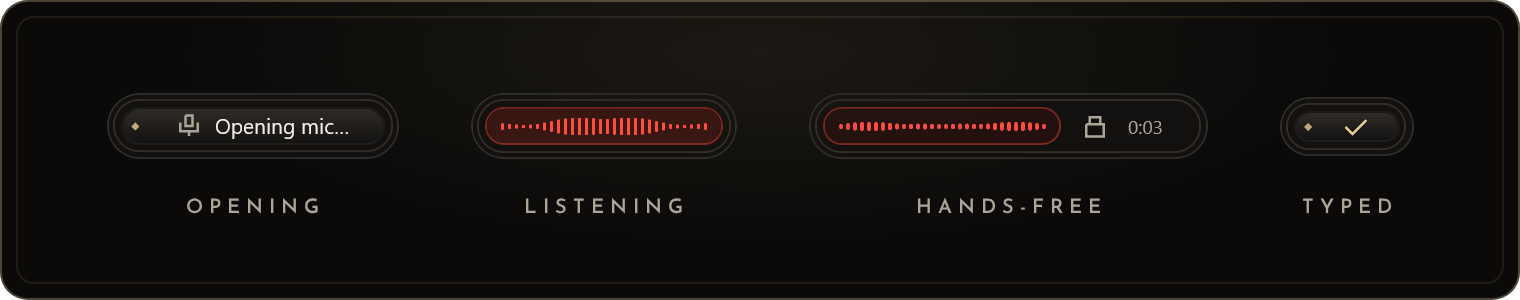
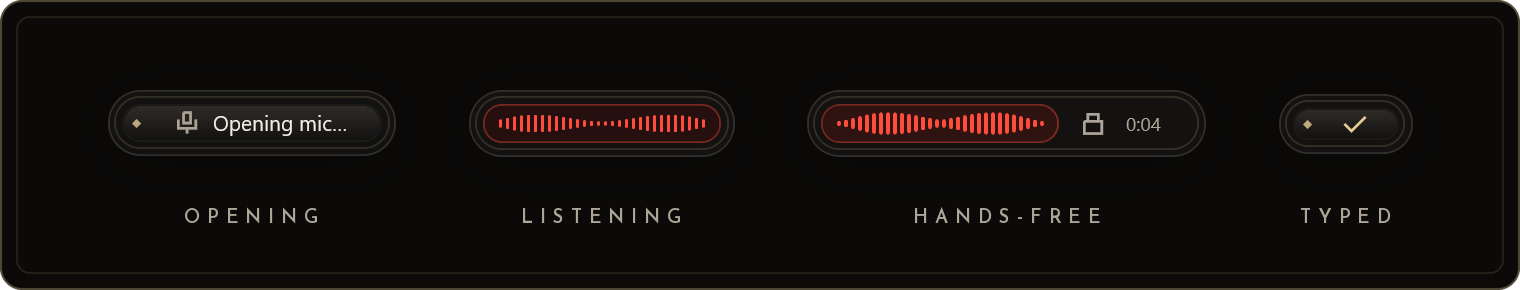
docs: show every feature in the README with native screenshots
Each image is a PrintWindow capture of Speakeasy's own windows from the --demo preview on Windows, composed onto the README card: the pill's states and outcomes, a Show in progress with its contact sheet and summary, first-launch setup, Settings and its four themes, and the tray states. Pause and pill outcomes are now stated once, beside the images that show them.

diff --git a/README.md b/README.md
@@ -9,8 +9,10 @@
 </p>
 
 <p align="center">
+  <a href="#show-your-coding-agent">Shows</a>&nbsp;&nbsp;◆&nbsp;&nbsp;
   <a href="#get-started">Get started</a>&nbsp;&nbsp;◆&nbsp;&nbsp;
   <a href="#speech-engines">Speech engines</a>&nbsp;&nbsp;◆&nbsp;&nbsp;
+  <a href="#everyday-use">Everyday use</a>&nbsp;&nbsp;◆&nbsp;&nbsp;
   <a href="#build-and-verify">Build and verify</a>&nbsp;&nbsp;◆&nbsp;&nbsp;
   <a href="docs/architecture.md">Architecture</a>
 </p>
@@ -23,7 +25,8 @@ slot on screen while you speak, and keeps every word on your machine.
 
 <p align="center">
   <img src="docs/assets/pill.png"
-    alt="The pill opening the microphone, listening, recording hands-free, and confirming typed text" width="760">
+    alt="The pill opening the microphone, listening, hands-free with a lock and timer, and a check for typed text"
+    width="760">
 </p>
 
 | Gesture                                        | Windows                                             | Mac                              |
@@ -35,11 +38,32 @@ slot on screen while you speak, and keeps every word on your machine.
 
 The shortcuts match Wispr Flow's defaults, and double-tapping the shortcut also starts hands-free.
 On Mac, set **System Settings › Keyboard › Press 🌐 key to** to **Do Nothing** so Fn only dictates.
-Recordings stop at five minutes, with a countdown for the last 30 seconds. A check means the text
-was submitted to your app; **No speech detected** means nothing was sent. **Remove um / uh** is on
-by default and removes standalone English hesitation words locally before insertion. Speech
-containing only these fillers sends nothing. Turn it off for non-English Parakeet dictation or
-literal transcription; Whisper removes fillers only when its language is set to English.
+**Remove um / uh** is on by default and removes standalone English hesitation words locally before
+insertion. Speech containing only these fillers sends nothing. Turn it off for non-English Parakeet
+dictation or literal transcription; Whisper removes fillers only when its language is set to
+English.
+
+### Reading the pill
+
+The pill sits at the bottom of the screen, never takes focus, and lets clicks through to the app
+underneath. Hold the shortcut and the slot opens; the red waveform follows your voice. Hands-free
+adds a lock and the elapsed time. Near the five-minute limit, while it works, and once you finish,
+the pill shows:
+
+<p align="center">
+  <img src="docs/assets/pill-states.png"
+    alt="Pill states: 0:26 left in gold, the working lamp, No speech detected, Text copied, and a microphone error"
+    width="760">
+</p>
+
+- **Time left.** Recordings stop at five minutes. The last 30 seconds count down in gold, and at
+  zero the recording finishes and its text is delivered as usual.
+- **Working.** The lamp slides through the slot while your speech is transcribed on this machine.
+- **Typed.** A check, shown above, means the text was submitted to your app.
+- **No speech detected.** Nothing was sent.
+- **Text copied.** The text is on the clipboard but was not pasted, for example because the shortcut
+  keys were still held or Speakeasy itself had focus. Paste it where you want it.
+- **Needs attention.** An error says what to do next and stays in Settings after the pill fades.
 
 ### Show your coding agent
 
@@ -48,10 +72,40 @@ shortcut: the pill shows a red screen mark, and Speakeasy records the display un
 along with your voice. Release the shortcut and keep talking; hold <kbd>Shift</kbd> to draw circles
 and arrows that fade as you go, and click through as usual. Press the shortcut again to finish.
 
+<p align="center">
+  <img src="docs/assets/show.png"
+    alt="A Show in progress: red ink circles a label running under a Save button; the pill shows the screen mark"
+    width="760">
+</p>
+
+<p align="center">
+  <img src="docs/assets/show-pill.png"
+    alt="The pill recording a Show, with a red screen mark and 0:02, and the pill saying Show copied" width="760">
+</p>
+
 Speakeasy picks the keyframes your ink, clicks, and words point at, annotates them, and writes a
-bundle of keyframes, a contact sheet, `summary.md`, and `show.json`. The pill says **Show copied**:
-paste the summary into your agent and it opens the frames itself. Shows record on Windows, and
-experimentally on Mac, but not on Linux.
+bundle of keyframes, a contact sheet, `summary.md`, and `show.json`. The pill says **Show copied**
+and the summary is on the clipboard: paste it into your agent and it opens the frames itself. Shows
+record on Windows, and experimentally on Mac, but not on Linux.
+
+<p align="center">
+  <img src="docs/assets/show-sheet.png"
+    alt="A contact sheet of four timed keyframes marked with a click, a circle and arrow, a click, and a drag"
+    width="760">
+</p>
+
+On Windows, the summary for that contact sheet reads as follows; `speakeasy show demo` writes this
+scripted bundle of a made-up app:
+
+```text
+Screen recording (0:20, 4 keyframes): …\speakeasy\shows\20261020T143205Z
+Contact sheet: …\speakeasy\shows\20261020T143205Z\contact-sheet.png
+- #1 (0:02) [clicked] “Here's the settings window. When I open Appearance,”
+- #2 (0:09) [circled, drew an arrow] “the theme picker is here, but look, this label runs under the save button.”
+- #3 (0:12) [clicked] “Now I click reduce motion and nothing happens.”
+- #4 (0:17) [dragged right] “Dragging the text size slider works, though.”
+Full-size keyframes: frames/frame-01.png to frames/frame-04.png. Timeline: show.json.
+```
 
 ## What's said here stays here
 
@@ -96,6 +150,12 @@ use. They live in `%LOCALAPPDATA%\speakeasy` on Windows and
 `~/Library/Application Support/speakeasy` on Mac. **Cancel** pauses setup, and the next attempt
 resumes where it stopped.
 
+<p align="center">
+  <img src="docs/assets/setup.png"
+    alt="Settings during first-launch setup, downloading the Parakeet model with a progress bar and Cancel"
+    width="530">
+</p>
+
 <details>
 <summary>Build from source</summary>
 
@@ -121,14 +181,6 @@ prints its summary. Linux has experimental desktop support; see the Linux instru
 X11 build needs ALSA, fontconfig, X11/XCB, xkbcommon, and Vulkan development packages.
 
 </details>
-
-Settings also choose the microphone, GPU use, filler removal, how text is delivered, reduced motion,
-and theme: **Jet & Champagne**, **Emerald Lounge**, **Iris**, or **Midnight Chrome**. Changes apply
-when you save. Theme and reduced-motion changes keep a recording running; microphone, language,
-filler removal, and delivery changes end it but keep the model loaded. On Linux, Shortcuts changes
-and most Insert changes restart dictation, which reloads the model. Saving stays responsive and
-preserves edits made while the save is running. Pausing during a save keeps dictation paused; Quit
-finishes requested saves.
 
 ## Linux (experimental)
 
@@ -196,11 +248,37 @@ machines, prefer Parakeet: other accounts can read Whisper's
 The worker stays warm on loopback. With a GPU, one silent request initializes its kernels before the
 first dictation; Linux CPU workers also validate inference before readiness. Cancelling GPU work
 keeps a healthy worker and replaces it if a two-second recovery check fails. Cancelling active CPU
-inference replaces the worker. **Pause dictation** releases the shortcut and the model. On Mac and
-Linux, force-quitting Speakeasy can leave the worker running; quit from its menu instead. Relative
-engine and model paths resolve beside the settings file.
+inference replaces the worker. On Mac and Linux, force-quitting Speakeasy can leave the worker
+running; quit from its menu instead. Relative engine and model paths resolve beside the settings
+file.
 
 ## Everyday use
+
+### Settings
+
+<p align="center">
+  <img src="docs/assets/settings.png"
+    alt="Settings: shortcut hints, the Parakeet engine and model, microphone, preferences, Ready · Parakeet"
+    width="500">
+</p>
+
+Settings show the shortcuts and the engine and model in use, and choose the microphone, GPU use,
+filler removal, how text is delivered, reduced motion, and theme. The status line near the bottom
+says whether dictation is ready, or shows the latest error or notice.
+
+Changes apply when you save. Theme and reduced-motion changes keep a recording running; microphone,
+language, filler removal, and delivery changes end it but keep the model loaded. On Linux, Shortcuts
+changes and most Insert changes restart dictation, which reloads the model. Saving stays responsive
+and preserves edits made while the save is running. Pausing during a save keeps dictation paused;
+Quit finishes requested saves.
+
+<p align="center">
+  <img src="docs/assets/themes.png"
+    alt="Settings in the four themes: Jet & Champagne, Emerald Lounge, Iris, and Midnight Chrome" width="760">
+</p>
+
+The theme colors Settings, the pill, and the Windows and Linux tray icon: **Jet & Champagne**,
+**Emerald Lounge**, **Iris**, or **Midnight Chrome**.
 
 Settings live in `%APPDATA%\speakeasy\settings.json` on Windows and
 `~/Library/Application Support/speakeasy/settings.json` on Mac. Start from `settings.example.json`
@@ -210,9 +288,21 @@ Windows and Mac, configured launches go straight to the tray or menu bar; Linux 
 startup. Closing Settings hides it and keeps unsaved edits; Windows minimize also hides it.
 Reopening Speakeasy or choosing **Settings…** in the tray brings it back.
 
-The tray icon shows loading, ready, recording, processing, paused, and attention states. Its menu
-pauses or resumes dictation, starts or finishes a recording, cancels, opens Settings, and quits.
-Errors stay in Settings after the pill fades.
+### Tray
+
+<p align="center">
+  <img src="docs/assets/tray.png"
+    alt="Tray icon: ready, red while recording, a ring while working, a pause badge, an attention badge"
+    width="760">
+</p>
+
+The tray icon shows whether Speakeasy is ready, recording, working (for example loading the model or
+transcribing), paused, or needs attention. The Mac menu bar icon is monochrome, so it marks
+recording with a badge instead of red. The menu pauses or resumes dictation, starts or finishes a
+recording, cancels, opens Settings, and quits. **Pause dictation**, or **Pause** in Settings,
+releases the shortcut and the model until you resume.
+
+### Text delivery
 
 By default the text is pasted through the clipboard and stays there. **Keep clipboard** types it as
 direct input instead, which some editors reject. Protected fields and elevated Windows apps may
